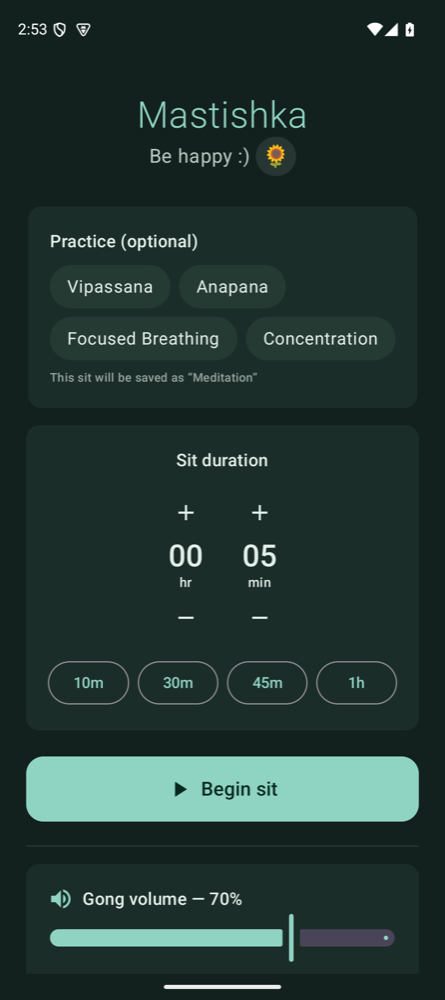
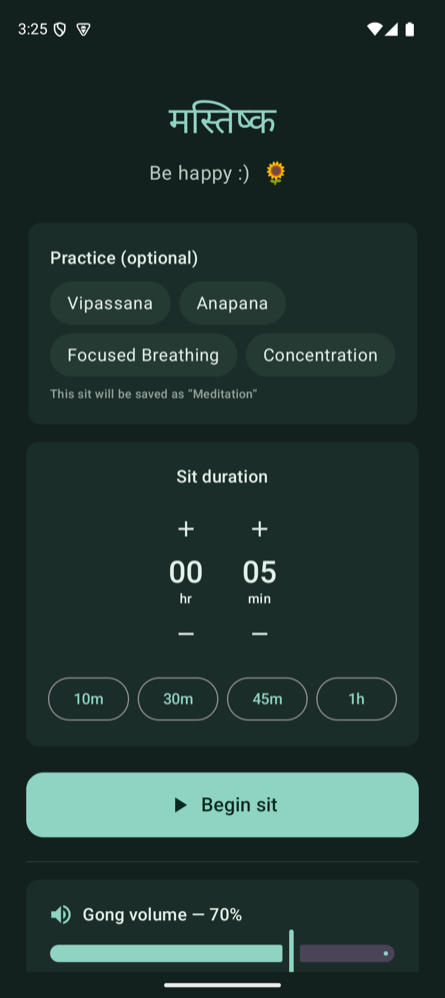
Gong rings through DND; center settings rows; refresh screenshots
- Gong is back on the alarm channel (USAGE_ALARM) so it rings through Do
  Not Disturb (alarms are an allowed DND exception by default) — fixes the
  gong being silent under DND after the earlier media-channel switch. To
  avoid the original quiet-on-Samsung bug, raiseAlarmVolume() maxes the
  STREAM_ALARM volume only while the gong plays and restores the user's
  prior level on completion / release / service destroy. The in-app slider
  stays the real loudness control via MediaPlayer.setVolume. Applied to
  both TimerService.playGong() and the Test gong path in MeditationViewModel.
  Verified on a Pixel 9 under priority DND: alarm vol 6 -> 7 during the gong
  -> restored to 6 after. (Total-silence DND still mutes alarms, by design.)
- Center the "Test gong / Stop" and "Monitor heart rate" rows horizontally
  to match the rest of the setup screen.
- Refresh docs/screenshots/setup.png (Nepali मस्तिष्क title) and add
  gong.png (segmented sound picker + centered buttons); link it in README.

diff --git a/app/src/main/java/nishparadox/mastishka/service/TimerService.kt b/app/src/main/java/nishparadox/mastishka/service/TimerService.kt
@@ -9,6 +9,7 @@ import android.content.Context
 import android.content.Intent
 import android.content.pm.ServiceInfo
 import android.media.AudioAttributes
+import android.media.AudioManager
 import android.media.MediaPlayer
 import android.os.Build
 import android.os.IBinder
@@ -126,12 +127,12 @@ class TimerService : Service() {
         val player = MediaPlayer().apply {
             setAudioAttributes(
                 AudioAttributes.Builder()
-                    // Media channel: tracks the volume slider the user actually knows (the
-                    // one the hardware buttons move) and still plays on silent/vibrate and
-                    // through DND's default config. The old USAGE_ALARM routed to a separate,
-                    // often-muted alarm slider (notably on Samsung One UI) — the quiet-gong bug.
-                    .setUsage(AudioAttributes.USAGE_MEDIA)
-                    .setContentType(AudioAttributes.CONTENT_TYPE_MUSIC)
+                    // Alarm channel so the gong rings through Do Not Disturb (alarms are an
+                    // allowed DND exception by default). The alarm stream is a separate, often-low
+                    // slider on Samsung One UI, so raiseAlarmVolume() maxes it only while the gong
+                    // plays (restored after) — the in-app slider stays the real loudness control.
+                    .setUsage(AudioAttributes.USAGE_ALARM)
+                    .setContentType(AudioAttributes.CONTENT_TYPE_SONIFICATION)
                     .build()
             )
         }
@@ -140,8 +141,8 @@ class TimerService : Service() {
             player.setDataSource(it.fileDescriptor, it.startOffset, it.length)
         }
         player.setVolume(gongVolume, gongVolume)
-        player.setOnPreparedListener { it.start() }
-        player.setOnCompletionListener { it.release(); if (gongPlayer === it) gongPlayer = null }
+        player.setOnPreparedListener { raiseAlarmVolume(); it.start() }
+        player.setOnCompletionListener { restoreAlarmVolume(); it.release(); if (gongPlayer === it) gongPlayer = null }
         player.prepareAsync()
         gongPlayer = player
     }
@@ -149,6 +150,29 @@ class TimerService : Service() {
     private fun releaseGong() {
         gongPlayer?.let { runCatching { it.release() } }
         gongPlayer = null
+        restoreAlarmVolume()
+    }
+
+    // Max the alarm stream only while the gong sounds, remembering the user's level so it can
+    // be put back. Touches the alarm *volume* only — never alarm schedules. Wrapped in
+    // runCatching since setStreamVolume can throw on restricted devices.
+    private var savedAlarmVolume: Int? = null
+
+    private fun raiseAlarmVolume() {
+        val am = getSystemService(Context.AUDIO_SERVICE) as AudioManager
+        if (savedAlarmVolume == null) savedAlarmVolume = am.getStreamVolume(AudioManager.STREAM_ALARM)
+        runCatching {
+            am.setStreamVolume(AudioManager.STREAM_ALARM, am.getStreamMaxVolume(AudioManager.STREAM_ALARM), 0)
+        }
+    }
+
+    private fun restoreAlarmVolume() {
+        val saved = savedAlarmVolume ?: return
+        savedAlarmVolume = null
+        runCatching {
+            (getSystemService(Context.AUDIO_SERVICE) as AudioManager)
+                .setStreamVolume(AudioManager.STREAM_ALARM, saved, 0)
+        }
     }
 
     // ---------- Wake lock ----------

diff --git a/app/src/main/java/nishparadox/mastishka/MeditationViewModel.kt b/app/src/main/java/nishparadox/mastishka/MeditationViewModel.kt
@@ -1,7 +1,9 @@
 package nishparadox.mastishka
 
 import android.app.Application
+import android.content.Context
 import android.media.AudioAttributes
+import android.media.AudioManager
 import android.media.MediaPlayer
 import androidx.compose.runtime.getValue
 import androidx.compose.runtime.mutableFloatStateOf
@@ -276,16 +278,17 @@ class MeditationViewModel(app: Application) : AndroidViewModel(app) {
         val player = MediaPlayer().apply {
             setAudioAttributes(
                 AudioAttributes.Builder()
-                    // Media channel — see TimerService.playGong() for the rationale.
-                    .setUsage(AudioAttributes.USAGE_MEDIA)
-                    .setContentType(AudioAttributes.CONTENT_TYPE_MUSIC)
+                    // Alarm channel — see TimerService.playGong() for the rationale (rings through
+                    // DND; raiseAlarmVolume() maxes the alarm stream only while it plays).
+                    .setUsage(AudioAttributes.USAGE_ALARM)
+                    .setContentType(AudioAttributes.CONTENT_TYPE_SONIFICATION)
                     .build()
             )
         }
         val afd = getApplication<Application>().resources.openRawResourceFd(gongType.rawResId) ?: return
         afd.use { player.setDataSource(it.fileDescriptor, it.startOffset, it.length) }
         player.setVolume(gongVolume, gongVolume)
-        player.setOnPreparedListener { it.start() }
+        player.setOnPreparedListener { raiseAlarmVolume(); it.start() }
         player.setOnCompletionListener { stopTestGong() }
         player.prepareAsync()
         testPlayer = player
@@ -294,6 +297,28 @@ class MeditationViewModel(app: Application) : AndroidViewModel(app) {
     fun stopTestGong() {
         testPlayer?.let { runCatching { it.release() } }
         testPlayer = null
+        restoreAlarmVolume()
+    }
+
+    // Max the alarm stream only while the test gong sounds, restoring the user's level after.
+    // Mirrors TimerService so the test reflects the real sit. Alarm *volume* only — not schedules.
+    private var savedAlarmVolume: Int? = null
+
+    private fun raiseAlarmVolume() {
+        val am = getApplication<Application>().getSystemService(Context.AUDIO_SERVICE) as AudioManager
+        if (savedAlarmVolume == null) savedAlarmVolume = am.getStreamVolume(AudioManager.STREAM_ALARM)
+        runCatching {
+            am.setStreamVolume(AudioManager.STREAM_ALARM, am.getStreamMaxVolume(AudioManager.STREAM_ALARM), 0)
+        }
+    }
+
+    private fun restoreAlarmVolume() {
+        val saved = savedAlarmVolume ?: return
+        savedAlarmVolume = null
+        runCatching {
+            (getApplication<Application>().getSystemService(Context.AUDIO_SERVICE) as AudioManager)
+                .setStreamVolume(AudioManager.STREAM_ALARM, saved, 0)
+        }
     }
 
     override fun onCleared() {

diff --git a/app/src/main/java/nishparadox/mastishka/ui/Screens.kt b/app/src/main/java/nishparadox/mastishka/ui/Screens.kt
@@ -256,7 +256,10 @@ fun SetupScreen(
                     }
                 }
                 Spacer(Modifier.height(12.dp))
-                Row(horizontalArrangement = Arrangement.spacedBy(8.dp)) {
+                Row(
+                    modifier = Modifier.fillMaxWidth(),
+                    horizontalArrangement = Arrangement.spacedBy(8.dp, Alignment.CenterHorizontally),
+                ) {
                     FilledTonalButton(onClick = { vm.testGong() }) { Text("Test gong") }
                     OutlinedButton(onClick = { vm.stopTestGong() }) { Text("Stop") }
                 }
@@ -324,7 +327,11 @@ fun SetupScreen(
         }
 
         Spacer(Modifier.height(8.dp))
-        Row(modifier = Modifier.fillMaxWidth(), verticalAlignment = Alignment.CenterVertically) {
+        Row(
+            modifier = Modifier.fillMaxWidth(),
+            horizontalArrangement = Arrangement.Center,
+            verticalAlignment = Alignment.CenterVertically,
+        ) {
             Checkbox(
                 checked = vm.monitorHeartRate && vm.hcConnected,
                 onCheckedChange = { vm.updateMonitorHeartRate(it) },

diff --git a/README.md b/README.md
@@ -28,7 +28,8 @@ foreground service + wake lock so the gong fires reliably even with the screen o
 ## Screenshots
 
 <p>
-  <img src="docs/screenshots/setup.png" width="200" alt="Setup — duration, gong volume & sound" />
+  <img src="docs/screenshots/setup.png" width="200" alt="Setup — मस्तिष्क title, practice & duration" />
+  <img src="docs/screenshots/gong.png" width="200" alt="Gong — volume & segmented sound picker" />
   <img src="docs/screenshots/sit.png" width="200" alt="Sit — countdown" />
   <img src="docs/screenshots/metta.png" width="200" alt="Metta Bhavana" />
   <img src="docs/screenshots/history.png" width="200" alt="History with multi-select delete" />